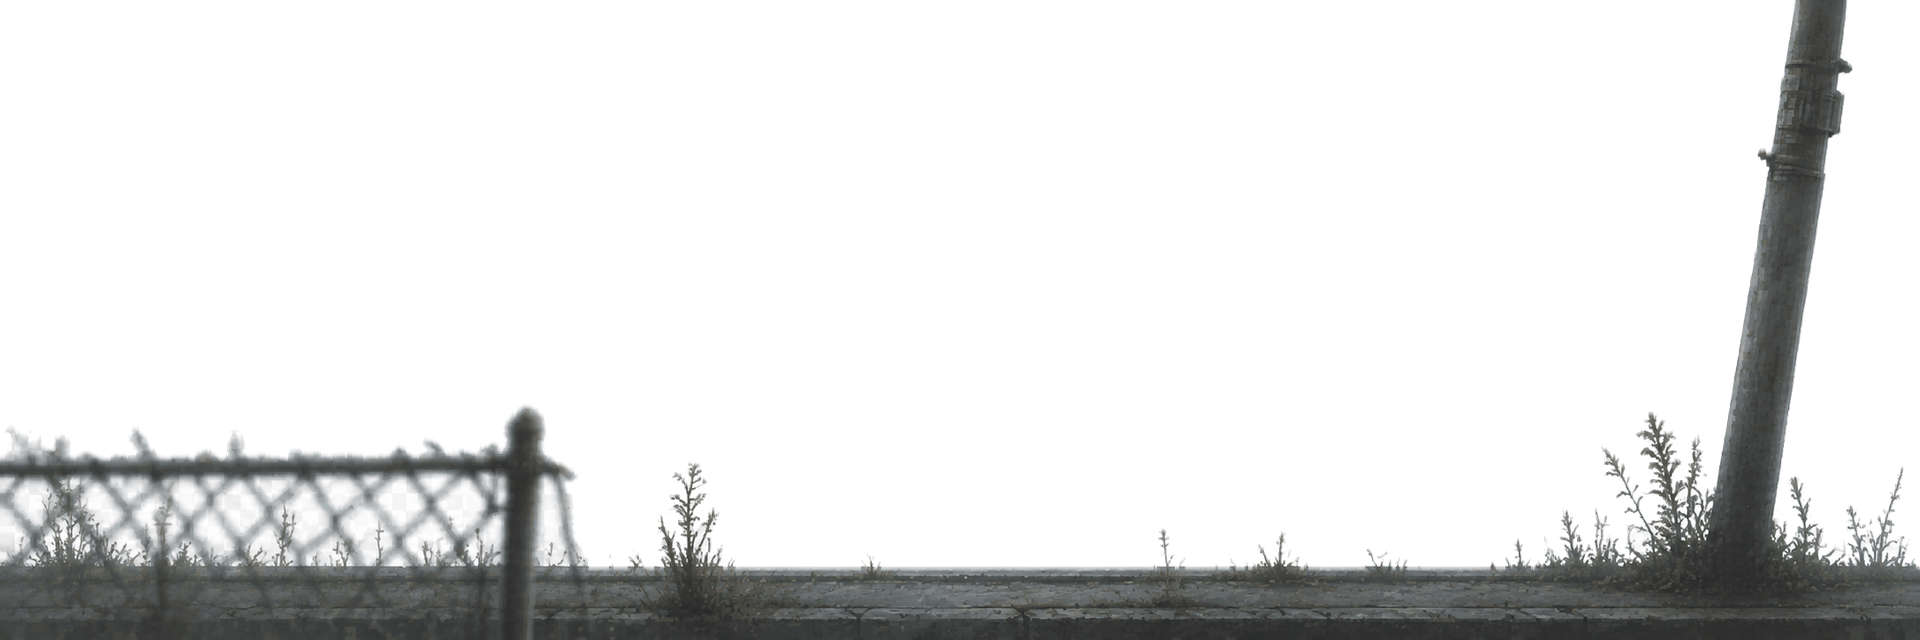
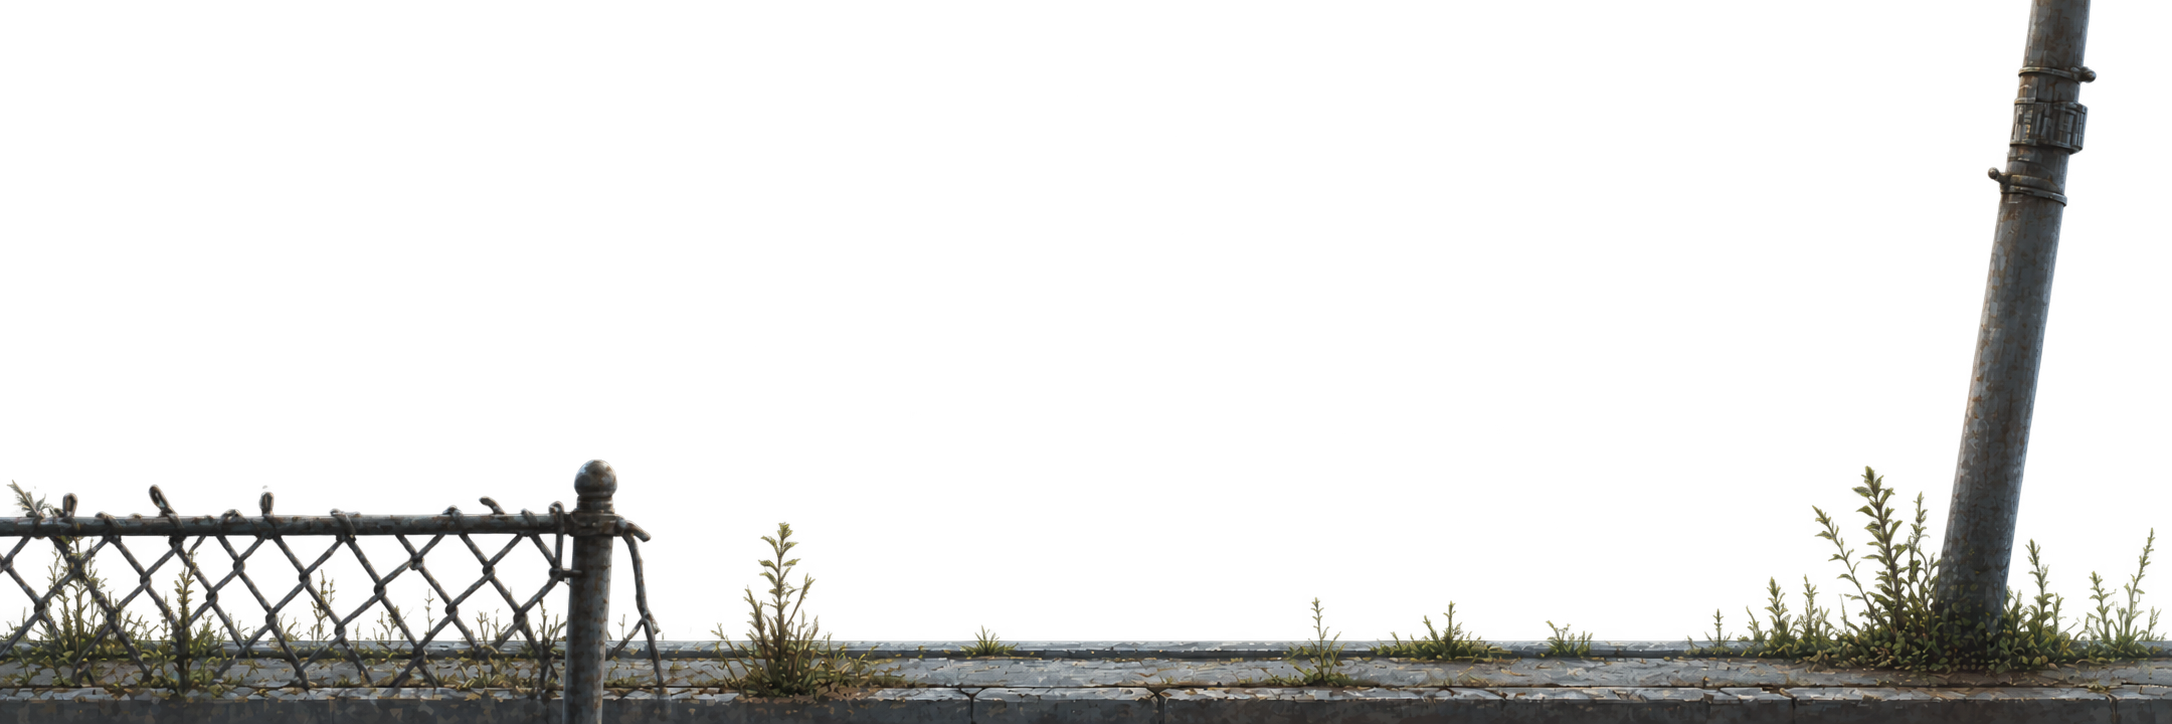
리뷰 및 에셋 수정

Changed region(s): [[0.0, 0.625, 1.0, 0.9688], [0.9062, 0.0938, 0.9688, 0.3125], [0.9062, 0.5, 0.9375, 0.5938]]

diff --git a/.docs/playreview.md b/.docs/playreview.md
@@ -1,0 +1,22 @@
+1. 프롤로그에서 달리는 캐릭터가 더 아래에 위치해야 함
+2. 프롤로그에서 어른 실루엣이 더 아래에 위치해야 함
+3. 스테이지 1 시작 시 페이드인 ~ 잠자고 있는(잠자는 부분만 재생 루프) 상태 ~ 페이드인 끝나고 잠시 후 잠자는 모션 역재생하며 기상하는 연출
+4. 양쪽 맵끝이 타일로 끝나도록 배치(맵 끝으로 가서 떨어지는 일 없도록)
+5. 프롭이 타일 위에 그려져야 함
+6. 달리기/땅파기/걷기 등 모션 중 강아지가 약간 작아짐. 항상 idle 크기 정도를 유지했으면 함
+7. 스테이지 1 프롭 가로수가 아주 많이 아래에 그려져야 함
+8. 기본적으로 냄새(길찾기)는 비활성화 상태이고, 냄새 맡기 모션 1초 이상 유지 시 누르고 있는 동안에만 반짝반짝 빛나는 느낌으로 활성화되어야 함
+9. 루프가 일부 부분인 모션은 루프 부분을 느리게 재생했으면 함
+10. 냄새 맡기를 E(상호작용/냄새맡기)로 옮기고, 아래 키는 아래쪽 보기(카메라가 아래쪽으로 스르륵 내려가서 기본 카메라가 캐릭터 위쪽 비추는 정도 높이로 캐릭터가 화면 위에 잡히도록 해서 아래 비추기)로 하자
+11. 길 생성 알고리즘을 수정하자. 단순 좌우좌우 배치로 오르내리는 길/단순 위층 배치로 점프 길을 지양하고, 이런 경우 길게 계단식으로 배치해서 쭉 가서 올라갔다가 쭉 돌아오면서 올라와서 x 위치를 맞추도록 하자
+12. 떨어질 때 카메라가 캐릭터를 바로 따라가야 함. 지금은 캐릭터가 화면 끝에 간신히 남고 버벅이는 것이 보임
+13. 아래+점프로 내려가기(모션=점프)를 추가해줘. 내려가기는 가장 낮은 타일 위치가 아니라면 현재 타일을 통과해서 내려가는 기능이야
+14. 높은 곳으로 올라가면 bg near도 점점 내려가서 어느 순간부터는 안보여도 좋아. bg fore도 카메라 y가 올라갈 수록 점점 내려가면 좋을 것 같아
+15. 시작 지점, 도착 지점이 명확하면 좋겠어. 도착 지점도 그곳에서 상호작용 하면 통과인 걸로
+16. 세이브 오브젝트들 더 낮게 배치해야 땅 위에 있는 느낌이 들 것 같아
+17. 일정 이상 높이에서 떨어지면 죽도로 하자
+18. 강아지가 더 타일 아래쪽에 그려져야 땅 위에 서있는 느낌이 들 것 같아
+19. 스테이지 3 다리 타일은 밑바닥에 착지 판정이 있어야 함
+20. 냄새 맡기는 현재 위치를 기준으로 도착지점까지의 최단경로를 알려줘야 함. 즉 런타임 길찾기임
+21. 게임 중간 중단 후 버튼 2개가 보이는데 첫번째는 동작 안하고 두번째는 홈으로 돌아감. 이렇게 홈으로 돌아가면 홈에 버튼 3개가 보이는데 전부 동작 안함
+22. 버그인지 액터 등이 하나도 안나오네. 맵 설정 페이지에서 맵 생성 후 이런 배치를 네가 생성 or 내가 추가할 수 있게 해줘
